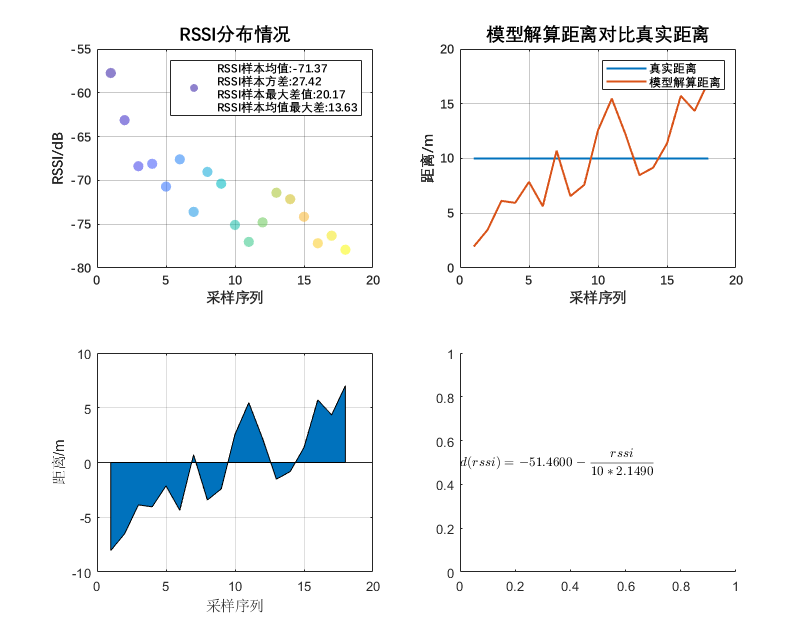
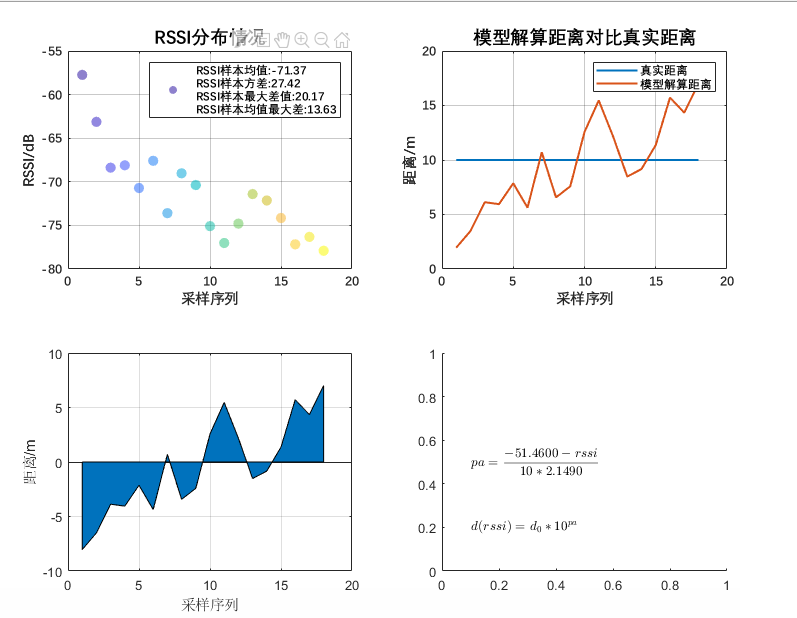
修改模型分析模型

diff --git a/data_analysis/calc_distance_based_on_rssi_piecewise.m b/data_analysis/calc_distance_based_on_rssi_piecewise.m
@@ -121,8 +121,15 @@ function distance = calc_distance_based_on_rssi_piecewise(ap, varargin)
 
     end
 
-    dist = calculate_distance_based_on_rssi_piecewise(...
-        cur_param.param_less_rssi, cur_param.param_more_rssi, ...
-        ap_rssi, cur_param.piecewise_rssi);
+    if false
+        dist = calculate_distance_based_on_rssi_piecewise(...
+            cur_param.param_less_rssi, cur_param.param_more_rssi, ...
+            ap_rssi, cur_param.piecewise_rssi);
+    else
+        A = -51.46;
+        b = 2.149
+        dist = calculate_distance_based_on_rssi(A, b, rssi, varargin)
+    end
+
     distance = dist;
 end

diff --git a/attenuation_model/doc/均值对数模型分析-R1.md b/attenuation_model/doc/均值对数模型分析-R1.md
@@ -74,7 +74,7 @@ $RSSI(RSSI<0)$ ：rssi观测值(db)；
 
 $$
 \begin{align}
-& d(rssi) = -51.4600 - \frac{rssi}{10*2.149}\\
+& d(rssi) =d_0*10^\frac{ -51.4600-rssi}{10*2.149}\\
 \end{align}
 $$
 从拟合结果看，将环境因子${\Delta_{env}}$ 设置为-15，拟合出来的结果较好，且距离为1时的rssi值同ap参考值基本一致；
